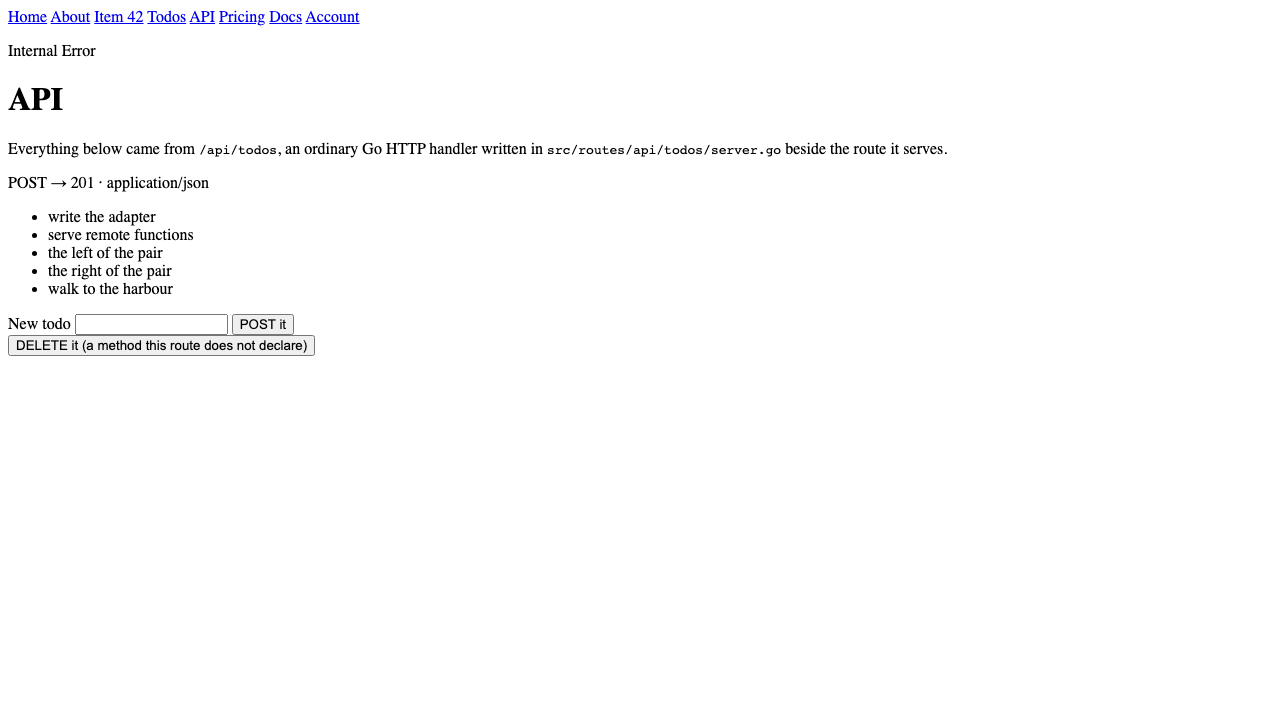
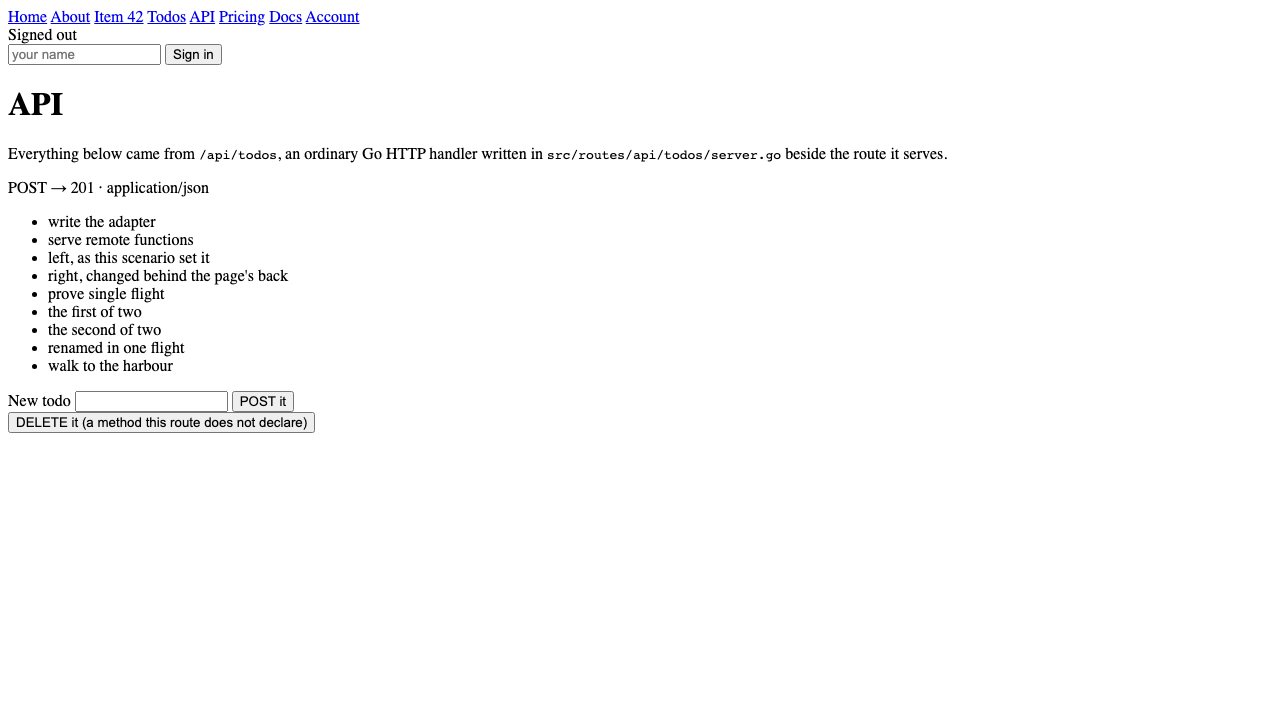
A cold load of a page with a deferred value shows its loading state

diff --git a/example/e2e/steps/stream.ts b/example/e2e/steps/stream.ts
@@ -1,0 +1,79 @@
+import { createBdd } from 'playwright-bdd';
+import { expect, test } from './fixtures';
+
+const { When, Then } = createBdd(test);
+
+/**
+ * Opens a page and comes back as soon as the response has started, rather than
+ * when it has finished.
+ *
+ * That distinction is the whole scenario. A streamed document's `load` event
+ * does not fire until the last value has arrived, so `page.goto` with its
+ * default wait would return a second and a half later — with the orders already
+ * on screen and the loading state gone unseen.
+ */
+When('I start loading {string}', async ({ page }, path: string) => {
+	await page.goto(path, { waitUntil: 'commit' });
+});
+
+// The total is a value the load had in hand and the orders are the value it
+// promised, so this is the page mid-flight: rendered, showing what Go knew, and
+// still waiting for what Go did not know yet. The total is asserted first
+// because a page that rendered nothing has no loading state either — "the rows
+// are absent" alone would be satisfied by a blank document.
+Then(
+	'the page says there are {int} orders and is still fetching them',
+	async ({ page, shot }, total: number) => {
+		await expect(page.getByTestId('order-total')).toHaveText(`${total} orders`);
+		await expect(page.getByTestId('orders-pending')).toBeVisible();
+		await expect(page.getByTestId('order')).toHaveCount(0);
+		await shot('pending');
+	}
+);
+
+When('the orders arrive', async ({ page }) => {
+	await expect(page.getByTestId('orders-pending')).toHaveCount(0, { timeout: 15_000 });
+});
+
+Then('the orders are {string} and {string}', async ({ page, shot }, first: string, second: string) => {
+	await expect(page.getByTestId('order')).toHaveText([first, second]);
+	await shot('resolved');
+});
+
+/**
+ * The other half of the claim, in the bytes rather than on the screen.
+ *
+ * The document ends at `</html>`, and everything after it is what kit appends
+ * to the same response as each promise settles: one `<script>` per value,
+ * calling the `resolve` the boot script declared. So the loading state has to
+ * be inside the document and the orders outside it — if the orders were in the
+ * markup the page never had a loading state to show, and if they were in a
+ * second response the browser went back for them.
+ */
+Then(
+	'the document carried the loading state, and the orders after it ended',
+	async ({ documents, shot }) => {
+		expect(documents.last, 'no document response was observed').not.toBeNull();
+		// The document the browser was given for this page, not the one it was
+		// given for the page it signed in on.
+		expect(new URL(documents.last!.url()).pathname).toBe('/account/orders');
+		const html = await documents.last!.text();
+
+		const end = html.indexOf('</html>');
+		expect(end, 'the response carried no document at all').toBeGreaterThan(0);
+		const document = html.slice(0, end);
+		const appended = html.slice(end);
+
+		expect(document).toContain('data-testid="orders-pending"');
+		expect(document).toContain('<p data-testid="order-total">2 orders</p>');
+		expect(document, 'the orders were in the document, so the page never had a loading state').not.toContain(
+			'a slow parcel'
+		);
+
+		expect(appended, 'nothing was appended to the document').toContain('.resolve(');
+		expect(appended).toContain('a slow parcel');
+		expect(appended).toContain('a slower parcel');
+
+		await shot('streamed');
+	}
+);

diff --git a/example/e2e/steps/loads.ts b/example/e2e/steps/loads.ts
@@ -75,28 +75,6 @@ Then(
 	}
 );
 
-// The total is a field the load had in hand; the orders are a field it promised
-// for later. Both are in the document, because Go settles what a load promised
-// before it renders — and the two are compared against each other rather than
-// against a number written here, so a page that rendered nothing fails.
-Then(
-	'the document already carried as many orders as the total said',
-	async ({ documents, shot }) => {
-		expect(documents.last, 'no document response was observed').not.toBeNull();
-		const html = await documents.last!.text();
-
-		const total = Number(
-			/data-testid="order-total">(\d+)/.exec(html)?.[1] ?? NaN
-		);
-		expect(Number.isFinite(total), 'the document carried no order total').toBe(true);
-		expect(total, 'the order total was zero, so counting rows proves nothing').toBeGreaterThan(0);
-
-		const rows = html.match(/data-testid="order"/g)?.length ?? 0;
-		expect(rows).toBe(total);
-		await shot('in-the-document');
-	}
-);
-
 Then("the browser never asked for the page's data", async ({ page, data, shot }) => {
 	// A refetch would already be in flight; wait a beat so it lands and can be
 	// counted.

diff --git a/ephemeral/worklog/202609071300-streaming-the-document.md b/ephemeral/worklog/202609071300-streaming-the-document.md
@@ -1,0 +1,55 @@
+# Streaming a deferred load value into the document (#38)
+
+## A backtick in a comment inside `SSR_ENTRY` silently ends the bundle
+
+`skgo-adapter.js` keeps the SSR entry, the polyfill and the `$app/server`
+substitute in `String.raw` template literals. A JSDoc comment written the way
+every other comment in the file is written — with `` `{#await}` `` in it —
+terminated the literal. The error surfaces two hundred lines later as a rolldown
+`[PARSE_ERROR] Expected a semicolon`, in `bundleConfigFile`, pointing at the
+vite config; nothing in it says "template literal". Backticks and `${` are
+forbidden inside those three constants.
+
+`internal/newapp/newapp_test.go` compares the template copy byte for byte with
+`example/web/skgo-adapter.js`, so any edit is two files or a failing test.
+
+## Svelte's server renderer never awaits an `{#await}`
+
+`svelte/src/internal/server/index.js`, `await_block`: if the value is a promise
+it pushes `BLOCK_OPEN`, calls `promise.then(null, noop)` and renders the pending
+branch — settled or not, it never waits. That is the fact the whole slice rests
+on. Go does not have to resolve anything for the engine; it only has to put *a*
+promise where the value goes, which is one new field on `ssr.Node` (`deferred`,
+the names of the fields) and three lines in the bundle's `node_data`.
+
+It also means the engine cannot render a `:then` branch at all, which is exactly
+kit's behaviour and not a limitation to work around.
+
+## Kit's streaming branch drops the status and the etag, and it is not an oversight to fix
+
+`render_response` ends:
+
+```js
+if (!chunks) headers.set('etag', `"${hash(transformed)}"`);
+return !chunks
+    ? text(transformed, { status, headers })
+    : new Response(stream_text(transformed + '\n', chunks), { headers });
+```
+
+`status` is passed on one branch and to nothing on the other, so a streamed
+error page is a 200, and a streamed document carries no etag to revalidate
+against. Both are mirrored. A future change that "fixes" either one makes skgo's
+document differ from the document kit's own client was written for.
+
+Two more from the same function, both mirrored: the chunks are yielded in
+*settlement* order rather than by id (`utils/streaming.js` gives a settling
+promise the next free slot, not its own), and `get_data` is called outside the
+`page_config.csr` branch — so whether a response streams is decided by the loads
+and never by whether the page hydrates, csr = false included.
+
+## Port 5173 was already taken by another worktree
+
+`vp dev --strictPort` printed `Port 5173 is already in use` and exited, and
+`lsof -nP -iTCP:5173` then showed a listener that looked like mine and was not.
+The dev leg ran on 5199/8138 and the prod leg on 8137, all three killed by pid.
+The "listening on" line prints before the bind either way.
